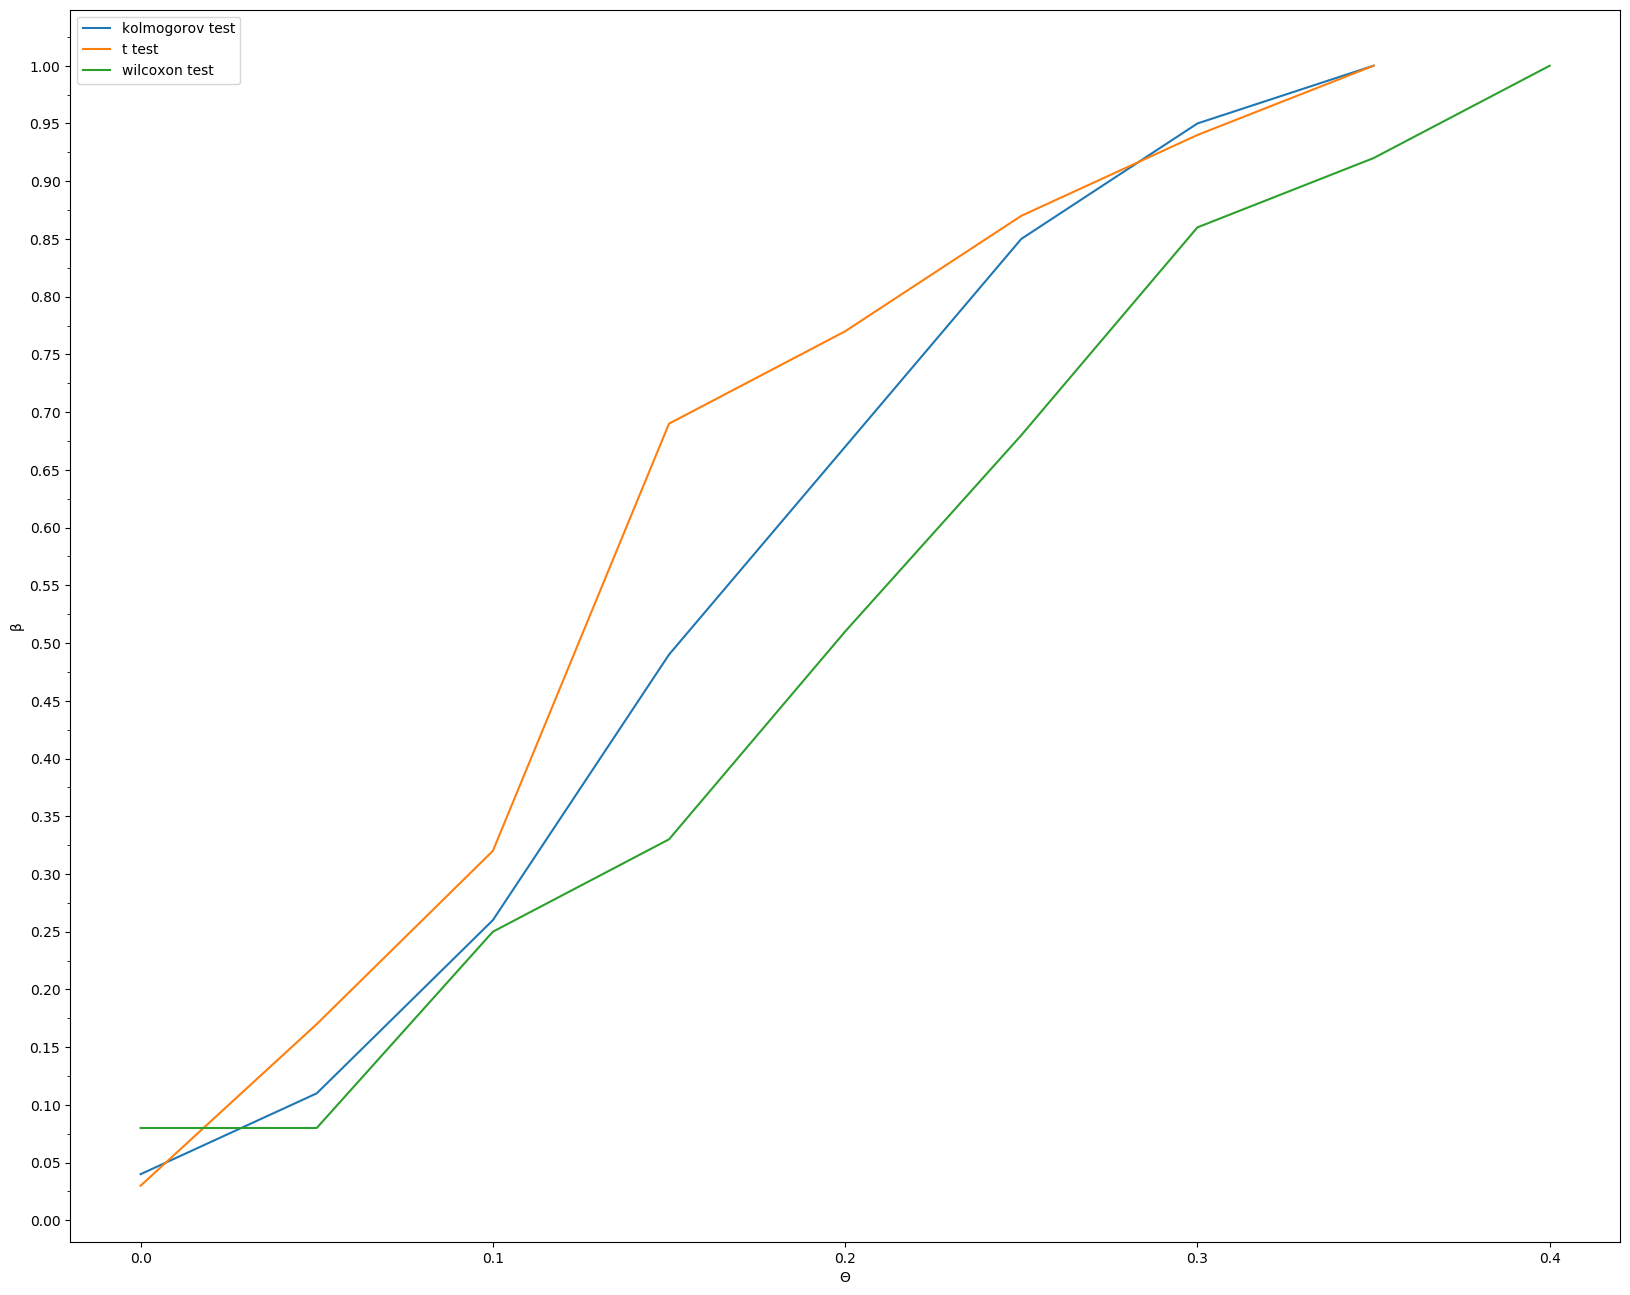
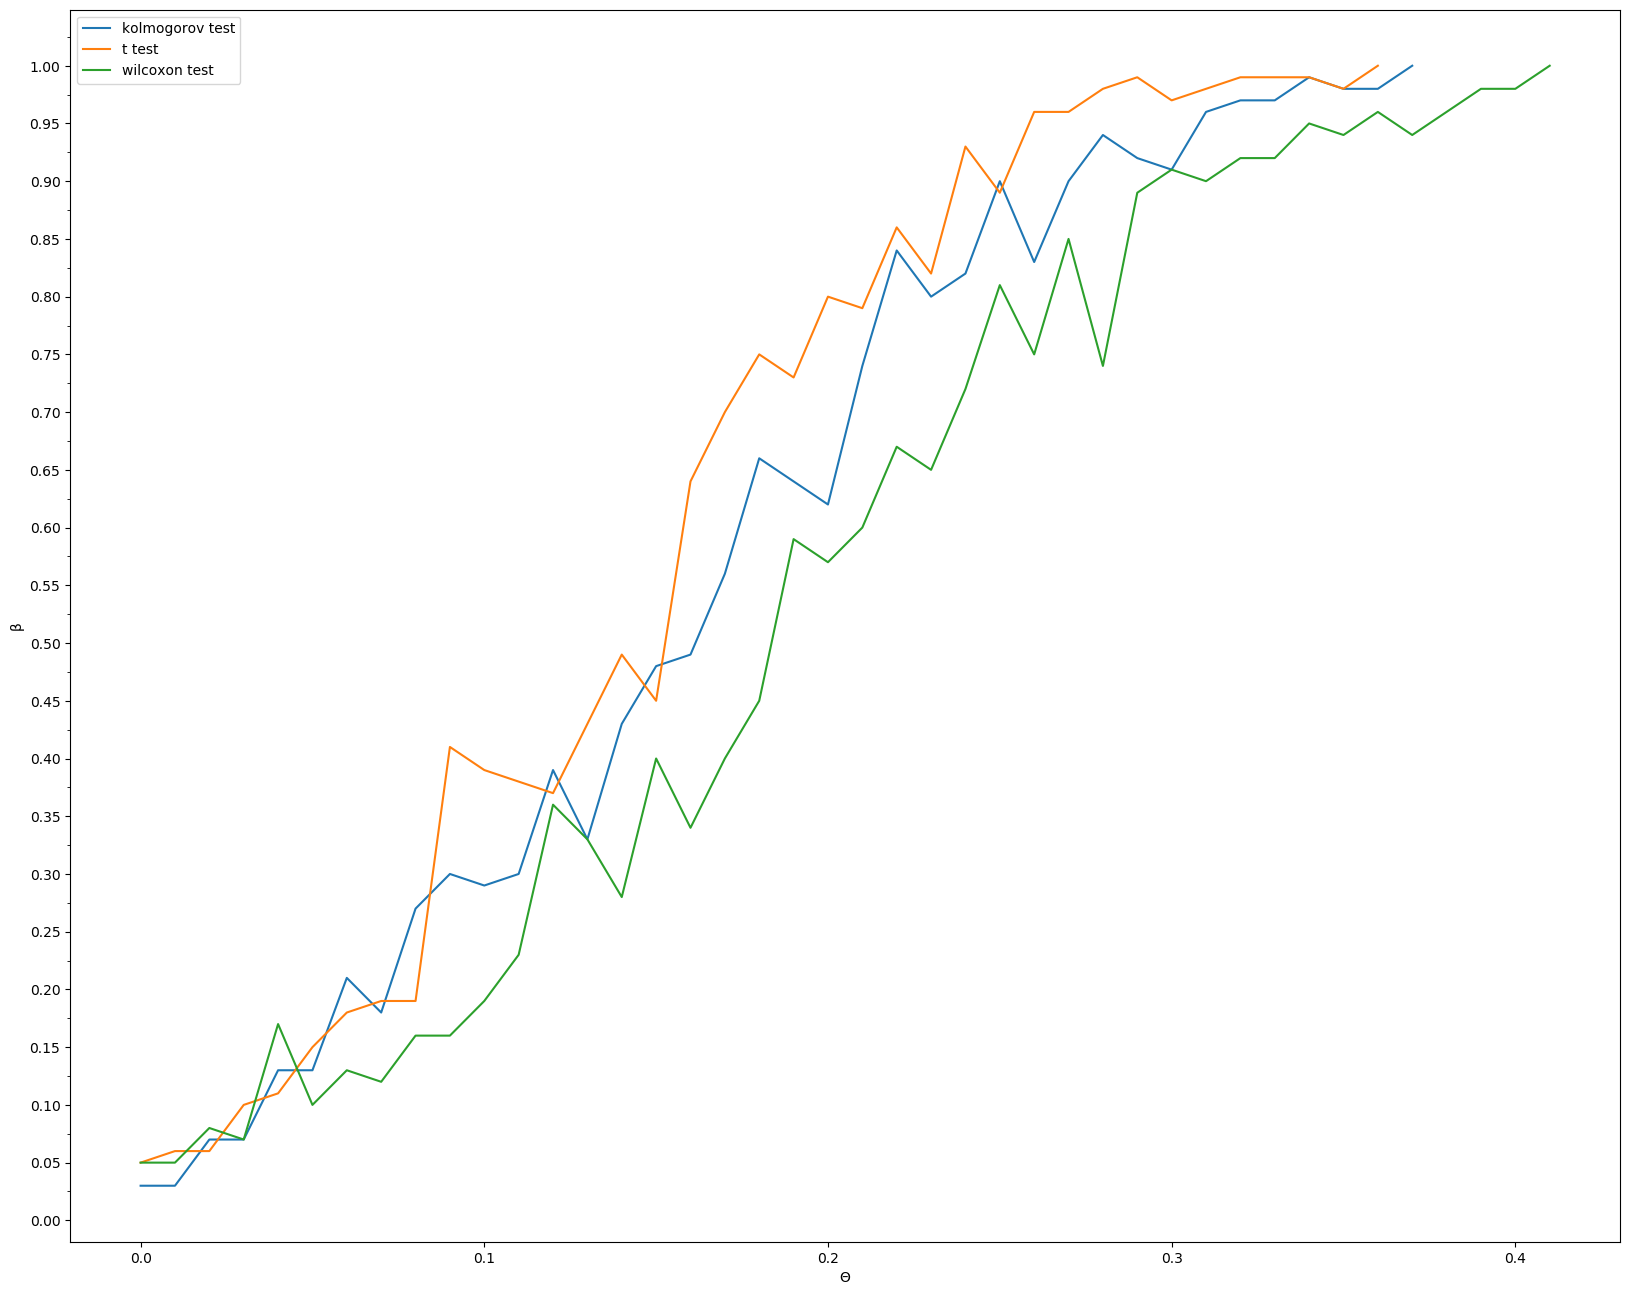
Wilcoxon fixed, Laplace and logistic distributions added

diff --git a/Hypothesis_testing/testing.py b/Hypothesis_testing/testing.py
@@ -7,7 +7,7 @@ import matplotlib.pyplot as plt
 import matplotlib.ticker as ticker
 import os
 
-DELTA = 0.05
+DELTA = 0.01
 REPETITION = 100
 ALPHA = 0.05
 FREEDOM_DEGREES = 5
@@ -29,6 +29,12 @@ def do_test(distribution, test, sample_size):
             elif distribution == 'uniform':
                 x = sample_generator.generate_uniform(sample_size, 0, 1)
                 y = sample_generator.generate_uniform(sample_size, shift, 1)
+            elif distribution == 'logistic':
+                x = sample_generator.generate_logistic(sample_size, 0, 1)
+                y = sample_generator.generate_logistic(sample_size, shift, 1)
+            elif distribution == 'laplace':
+                x = sample_generator.generate_laplace(sample_size, 0, 1)
+                y = sample_generator.generate_laplace(sample_size, shift, 1)
             elif distribution == 'tukey':
                 x = sample_generator.generate_tukey(sample_size, 0, 1, 10)
                 y = sample_generator.generate_tukey(sample_size, shift, 1, 10)
@@ -59,9 +65,9 @@ def do_test(distribution, test, sample_size):
 
 
 if __name__ == "__main__":
-    distribution = {0: 't', 1: 'normal', 2: 'tukey', 3: 'uniform'}
+    distribution = {0: 't', 1: 'normal', 2: 'tukey', 3: 'uniform', 4: 'logistic', 5: 'laplace'}
     sample_size = {0: 50, 1: 100, 2: 300, 3: 500}
-    for dist in range(4):
+    for dist in range(6):
         for size in range(4):
             result_kolm = do_test(distribution[dist], 'kolmogorov', sample_size[size])
             result_t = do_test(distribution[dist], 't', sample_size[size])

diff --git a/Hypothesis_testing/tests/confidence_test.py b/Hypothesis_testing/tests/confidence_test.py
@@ -1,0 +1,14 @@
+from kolmogorov_test import kolmogorov_test
+from student_test import student_test
+from wilcoxon_test import wilcoxon_test
+import sample_generator
+
+
+if __name__ == "__main__":
+    count = 0
+    for i in range(10000):
+        x = sample_generator.generate_normal(200, 0, 1)
+        y = sample_generator.generate_normal(200, 0, 1)
+        if wilcoxon_test(x, y, 0.05):
+            count += 1
+    print(count / 10000)

diff --git a/Hypothesis_testing/sample_generator.py b/Hypothesis_testing/sample_generator.py
@@ -27,3 +27,11 @@ def generate_tukey(sample_size, mean, std, std_scale):
             result[i] = np.random.normal(mean, std)
 
     return result
+
+
+def generate_logistic(sample_size, mean, scale):
+    return np.random.logistic(mean, scale, sample_size)
+
+
+def generate_laplace(sample_size, mean, scale):
+    return np.random.laplace(mean, scale, sample_size)

diff --git a/Hypothesis_testing/wilcoxon_test.py b/Hypothesis_testing/wilcoxon_test.py
@@ -13,7 +13,7 @@ def wilcoxon_statistic(x, y):
     result = 0
     for i in range(len(w)):
         if w[i][1] == 'y':
-            result += i
+            result += i + 1
     mw = len(y) * (len(x) + len(y) + 1) / 2
     dw = len(x) * len(y) * (len(x) + len(y) + 1) / 12
 
